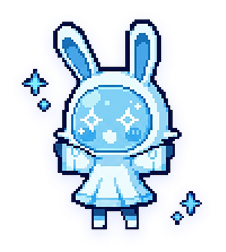
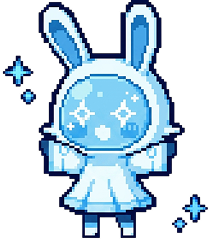
companion improve

diff --git a/src/app/dashboard/Overview.tsx b/src/app/dashboard/Overview.tsx
@@ -14,10 +14,18 @@ export default function Overview({ onNavigate }: OverviewProps) {
   
   const [gridCells, setGridCells] = useState<string[]>(() => Array.from({ length: 210 }, () => '#1E293B'));
 
+  const emotions = ['happy.png', 'smile.png', 'idle.png', 'lowbattery.png'];
+  const [currentEmotion, setCurrentEmotion] = useState(emotions[0]);
+
   useEffect(() => {
     const palette = ['#1E293B', '#4C1D95', '#4C1D95', '#7C3AED', '#8B5CF6', '#C4B5FD'];
     setGridCells(Array.from({ length: 210 }, () => palette[Math.floor(Math.random() * palette.length)]));
   }, []);
+
+  const changeEmotion = () => {
+    const nextIndex = (emotions.indexOf(currentEmotion) + 1) % emotions.length;
+    setCurrentEmotion(emotions[nextIndex]);
+  };
 
   const stats = [
     { label: 'TOTAL XP', value: '2,450', unit: 'XP', sub: '+120 this week', icon: Zap, color: '#38BDF8', trend: '+5.2%' },
@@ -176,16 +184,19 @@ export default function Overview({ onNavigate }: OverviewProps) {
         </FadeIn>
 
         <FadeIn>
-          <div className="bg-gradient-to-b from-[#1A181E] to-[#110F14] border border-white/[0.06] rounded-[24px] h-full flex items-center justify-center relative overflow-hidden group min-h-[300px]">
+          <div 
+            onClick={changeEmotion}
+            className="bg-gradient-to-b from-[#1A181E] to-[#110F14] border border-white/[0.06] rounded-[24px] h-full flex items-center justify-center relative overflow-hidden group min-h-[300px] cursor-pointer active:scale-95 transition-transform"
+          >
             <div className="absolute inset-0 bg-[radial-gradient(circle_at_center,_var(--tw-gradient-from)_0%,_transparent_70%)] from-purple-500/20 opacity-50 group-hover:opacity-100 transition-opacity" />
 
             <div className="absolute w-[180px] h-[180px] bg-purple-600/20 blur-[60px] rounded-full animate-pulse" />
 
             <Image 
-              src={`${basePath}/happy.png`} 
+              src={`${basePath}/${currentEmotion}`} 
               alt="Companion" 
-              width={220} 
-              height={220} 
+              width={223} 
+              height={252} 
               className="object-contain relative z-10 transform group-hover:scale-110 transition-all duration-700 ease-out"
               priority
             />